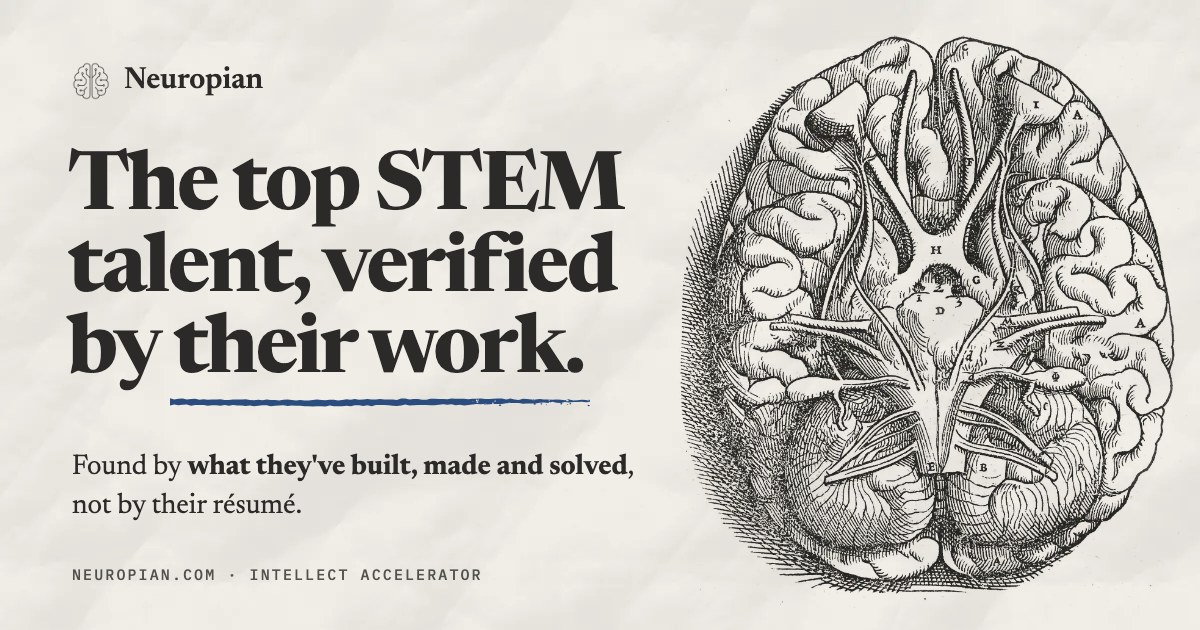
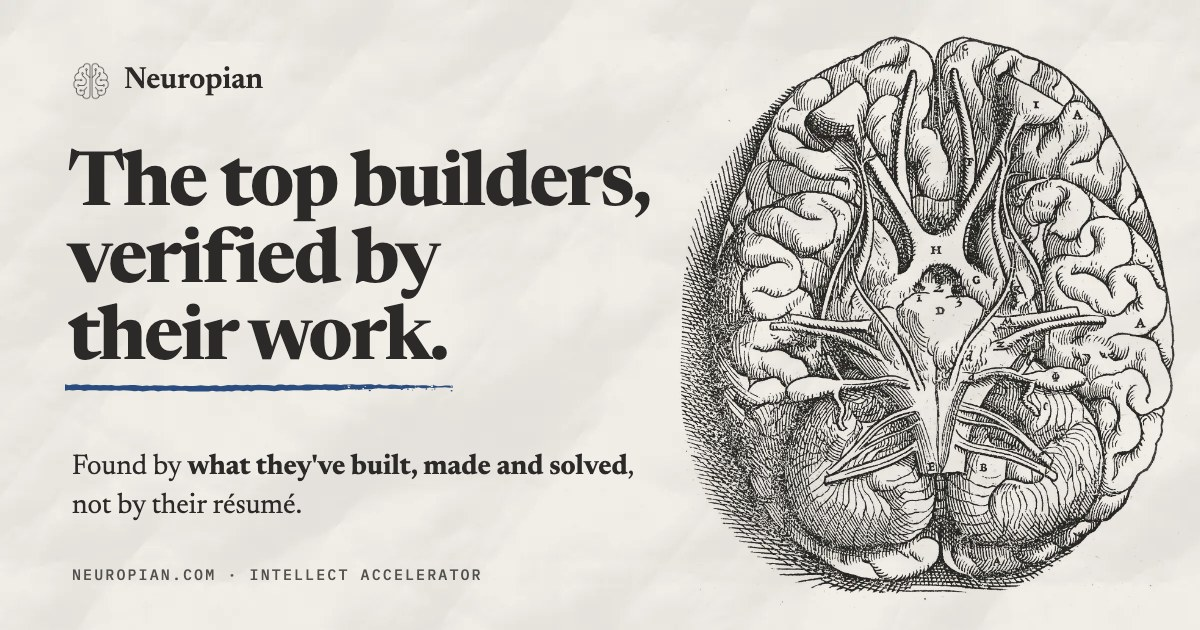
Headline: "The top builders, verified by their work." (*was "The top STEM talent"*), all 6 languages + og.jpg (?v=3); hero types 2.5x faster (30 ms/char, 200 ms delay; was 75/400); site.js?v=20261112a

Changed region(s): [[0.0617, 0.2111, 0.555, 0.6635]]

diff --git a/hi/index.html b/hi/index.html
@@ -5,14 +5,14 @@
 <meta name="darkreader-lock">
 <script>(function(){var h=location.hash,q=location.search,p=location.pathname,n=location.hostname,a=/access_token=|error_description=|type=(recovery|signup|invite|magiclink|email_change)/.test(h)||/[?&](code|token_hash)=/.test(q);if(/github\.io$/.test(n)){location.replace('https://neuropian.com/'+(a?'app':'')+q+h);return;}if(a&&(p==='/'||p==='/index.html'))location.replace('/app'+q+h)})()</script>
 <meta name="viewport" content="width=device-width, initial-scale=1">
-<title>Neuropian · शीर्ष STEM प्रतिभा, अपने काम से प्रमाणित</title>
+<title>Neuropian · शीर्ष निर्माता, अपने काम से प्रमाणित</title>
 <meta name="description" content="Neuropian, बुद्धि त्वरक: किसी भी क्षेत्र के प्रतिभाशाली लोग, जिन्हें उनके बनाए, रचे और हल किए काम से पहचाना जाता है।">
 <link rel="canonical" href="https://neuropian.com/hi/">
 <meta property="og:type" content="website">
 <meta property="og:url" content="https://neuropian.com/hi/">
 <meta property="og:title" content="Neuropian">
-<meta property="og:description" content="शीर्ष STEM प्रतिभा, अपने काम से प्रमाणित। Neuropian वह जगह है जहाँ प्रतिभाशाली लोग अपने बनाए, रचे और हल किए काम से पहचाने जाते हैं।">
-<meta property="og:image" content="https://neuropian.com/assets/og.jpg?v=2">
+<meta property="og:description" content="शीर्ष निर्माता, अपने काम से प्रमाणित। Neuropian वह जगह है जहाँ प्रतिभाशाली लोग अपने बनाए, रचे और हल किए काम से पहचाने जाते हैं।">
+<meta property="og:image" content="https://neuropian.com/assets/og.jpg?v=3">
 <meta property="og:image:width" content="1200">
 <meta property="og:image:height" content="630">
 <meta name="twitter:card" content="summary_large_image">
@@ -524,7 +524,7 @@ html .npac-k,html .npld{letter-spacing:0}html .npac h2{line-height:1.3}
   <div class="wrap hero-grid">
    <div class="hero-text">
     <p class="kicker">Neuropian · बुद्धि त्वरक</p>
-    <h1>शीर्ष STEM प्रतिभा, अपने काम से <span class="brush">प्रमाणित।</span></h1>
+    <h1>शीर्ष निर्माता, अपने काम से <span class="brush">प्रमाणित।</span></h1>
     <p class="lede">Neuropian वह जगह है जहाँ प्रतिभाशाली लोग अपने रिज़्यूमे से नहीं, बल्कि इस बात से पहचाने जाते हैं कि <b>उन्होंने क्या बनाया, रचा और हल किया</b>, और <b>वे कैसे नेतृत्व करते हैं और दूसरों के साथ काम करते हैं</b>।</p>
     <div class="ctas"><a class="cta" href="/hire?lang=hi">हम भर्ती कर रहे हैं →</a><a class="cta line" href="/app?lang=hi&auth=reg" data-auth="reg">मैं निर्माता हूँ →</a></div>
     <p class="tagline">संकेत, रिज़्यूमे नहीं · कोई प्रमाणपत्र ज़रूरी नहीं</p>
@@ -607,7 +607,7 @@ html .npac-k,html .npld{letter-spacing:0}html .npac h2{line-height:1.3}
     <span><a href="/terms.html">शर्तें</a> · <a href="/privacy.html">गोपनीयता</a><!--i18n:en--> <span class="en-note">(अंग्रेज़ी में)</span><!--/i18n:en--> · <a href="/app?lang=hi">सदस्य</a></span>
   </div>
 </footer>
-<script src="/assets/site.js?v=20261028a" defer></script>
+<script src="/assets/site.js?v=20261112a" defer></script>
 <script src="/assets/globe.js?v=20261030a" defer></script>
 <style>
 /* account card: opens over the page when you're signed in (Log in / Create an account never leave the page) */

diff --git a/he/index.html b/he/index.html
@@ -5,14 +5,14 @@
 <meta name="darkreader-lock">
 <script>(function(){var h=location.hash,q=location.search,p=location.pathname,n=location.hostname,a=/access_token=|error_description=|type=(recovery|signup|invite|magiclink|email_change)/.test(h)||/[?&](code|token_hash)=/.test(q);if(/github\.io$/.test(n)){location.replace('https://neuropian.com/'+(a?'app':'')+q+h);return;}if(a&&(p==='/'||p==='/index.html'))location.replace('/app'+q+h)})()</script>
 <meta name="viewport" content="width=device-width, initial-scale=1">
-<title>Neuropian · הכישרונות המובילים ב־STEM, מאומתים לפי העבודה שלהם</title>
+<title>Neuropian · הבונים המובילים, מאומתים לפי העבודה שלהם</title>
 <meta name="description" content="Neuropian, מאיץ האינטלקט: אנשים מבריקים בכל תחום, שמתגלים בזכות מה שבנו, יצרו ופתרו.">
 <link rel="canonical" href="https://neuropian.com/he/">
 <meta property="og:type" content="website">
 <meta property="og:url" content="https://neuropian.com/he/">
 <meta property="og:title" content="Neuropian">
-<meta property="og:description" content="הכישרונות המובילים ב־STEM, מאומתים לפי העבודה שלהם. Neuropian היא המקום שבו אנשים מבריקים מתגלים בזכות מה שבנו, יצרו ופתרו.">
-<meta property="og:image" content="https://neuropian.com/assets/og.jpg?v=2">
+<meta property="og:description" content="הבונים המובילים, מאומתים לפי העבודה שלהם. Neuropian היא המקום שבו אנשים מבריקים מתגלים בזכות מה שבנו, יצרו ופתרו.">
+<meta property="og:image" content="https://neuropian.com/assets/og.jpg?v=3">
 <meta property="og:image:width" content="1200">
 <meta property="og:image:height" content="630">
 <meta name="twitter:card" content="summary_large_image">
@@ -538,7 +538,7 @@ html .npac-k,html .npld{letter-spacing:.02em}
   <div class="wrap hero-grid">
    <div class="hero-text">
     <p class="kicker">Neuropian · מאיץ אינטלקט</p>
-    <h1>הכישרונות המובילים ב־STEM, מאומתים לפי <span class="brush">העבודה שלהם.</span></h1>
+    <h1>הבונים המובילים, מאומתים לפי <span class="brush">העבודה שלהם.</span></h1>
     <p class="lede">Neuropian היא המקום שבו אנשים מבריקים מתגלים בזכות <b>מה שבנו, יצרו ופתרו</b>, ובזכות <b>האופן שבו הם מובילים ועובדים עם אחרים</b>, ולא בזכות מה שכתוב בקורות החיים שלהם.</p>
     <div class="ctas"><a class="cta" href="/hire?lang=he">אנחנו מגייסים ←</a><a class="cta line" href="/app?lang=he&auth=reg" data-auth="reg">אני בונה ←</a></div>
     <p class="tagline">אותות, לא קורות חיים · ללא צורך בתעודות</p>
@@ -621,7 +621,7 @@ html .npac-k,html .npld{letter-spacing:.02em}
     <span><a href="/terms.html">תנאים</a> · <a href="/privacy.html">פרטיות</a><!--i18n:en--> <span class="en-note">(באנגלית)</span><!--/i18n:en--> · <a href="/app?lang=he">חברים</a></span>
   </div>
 </footer>
-<script src="/assets/site.js?v=20261028a" defer></script>
+<script src="/assets/site.js?v=20261112a" defer></script>
 <script src="/assets/globe.js?v=20261030a" defer></script>
 <style>
 /* account card: opens over the page when you're signed in (Log in / Create an account never leave the page) */

diff --git a/fr/index.html b/fr/index.html
@@ -5,14 +5,14 @@
 <meta name="darkreader-lock">
 <script>(function(){var h=location.hash,q=location.search,p=location.pathname,n=location.hostname,a=/access_token=|error_description=|type=(recovery|signup|invite|magiclink|email_change)/.test(h)||/[?&](code|token_hash)=/.test(q);if(/github\.io$/.test(n)){location.replace('https://neuropian.com/'+(a?'app':'')+q+h);return;}if(a&&(p==='/'||p==='/index.html'))location.replace('/app'+q+h)})()</script>
 <meta name="viewport" content="width=device-width, initial-scale=1">
-<title>Neuropian · Les meilleurs talents STEM, vérifiés par leur travail</title>
+<title>Neuropian · Les meilleurs bâtisseurs, vérifiés par leur travail</title>
 <meta name="description" content="Neuropian, l’accélérateur d’intellect : des personnes brillantes dans tous les domaines, repérées pour ce qu’elles ont construit, créé et résolu.">
 <link rel="canonical" href="https://neuropian.com/fr/">
 <meta property="og:type" content="website">
 <meta property="og:url" content="https://neuropian.com/fr/">
 <meta property="og:title" content="Neuropian">
-<meta property="og:description" content="Les meilleurs talents STEM, vérifiés par leur travail. Neuropian, c’est l’endroit où les personnes brillantes sont repérées pour ce qu’elles ont construit, créé et résolu.">
-<meta property="og:image" content="https://neuropian.com/assets/og.jpg?v=2">
+<meta property="og:description" content="Les meilleurs bâtisseurs, vérifiés par leur travail. Neuropian, c’est l’endroit où les personnes brillantes sont repérées pour ce qu’elles ont construit, créé et résolu.">
+<meta property="og:image" content="https://neuropian.com/assets/og.jpg?v=3">
 <meta property="og:image:width" content="1200">
 <meta property="og:image:height" content="630">
 <meta name="twitter:card" content="summary_large_image">
@@ -514,7 +514,7 @@ h2,h3{text-wrap:balance}.tile.t3 b{font-size:clamp(32px,3.6vw,50px)}
   <div class="wrap hero-grid">
    <div class="hero-text">
     <p class="kicker">Neuropian · Accélérateur d’intellect</p>
-    <h1>Les meilleurs talents STEM, vérifiés par <span class="brush">leur travail.</span></h1>
+    <h1>Les meilleurs bâtisseurs, vérifiés par <span class="brush">leur travail.</span></h1>
     <p class="lede">Neuropian, c’est l’endroit où les personnes brillantes sont repérées pour <b>ce qu’elles ont construit, créé et résolu</b>, et pour <b>leur façon de diriger et de travailler avec les autres</b>, pas pour ce qui figure sur leur CV.</p>
     <div class="ctas"><a class="cta" href="/hire?lang=fr">Je recrute →</a><a class="cta line" href="/app?lang=fr&auth=reg" data-auth="reg">Je suis bâtisseur →</a></div>
     <p class="tagline">Le signal, pas le CV · Aucun diplôme requis</p>
@@ -597,7 +597,7 @@ h2,h3{text-wrap:balance}.tile.t3 b{font-size:clamp(32px,3.6vw,50px)}
     <span><a href="/terms.html">Conditions</a> · <a href="/privacy.html">Confidentialité</a><!--i18n:en--> <span class="en-note">(en anglais)</span><!--/i18n:en--> · <a href="/app?lang=fr">Membres</a></span>
   </div>
 </footer>
-<script src="/assets/site.js?v=20261028a" defer></script>
+<script src="/assets/site.js?v=20261112a" defer></script>
 <script src="/assets/globe.js?v=20261030a" defer></script>
 <style>
 /* account card: opens over the page when you're signed in (Log in / Create an account never leave the page) */

diff --git a/es/index.html b/es/index.html
@@ -5,14 +5,14 @@
 <meta name="darkreader-lock">
 <script>(function(){var h=location.hash,q=location.search,p=location.pathname,n=location.hostname,a=/access_token=|error_description=|type=(recovery|signup|invite|magiclink|email_change)/.test(h)||/[?&](code|token_hash)=/.test(q);if(/github\.io$/.test(n)){location.replace('https://neuropian.com/'+(a?'app':'')+q+h);return;}if(a&&(p==='/'||p==='/index.html'))location.replace('/app'+q+h)})()</script>
 <meta name="viewport" content="width=device-width, initial-scale=1">
-<title>Neuropian · El mejor talento STEM, verificado por su trabajo</title>
+<title>Neuropian · Los mejores constructores, verificados por su trabajo</title>
 <meta name="description" content="Neuropian, el acelerador de intelecto: personas brillantes en cualquier campo, descubiertas por lo que han construido, creado y resuelto.">
 <link rel="canonical" href="https://neuropian.com/es/">
 <meta property="og:type" content="website">
 <meta property="og:url" content="https://neuropian.com/es/">
 <meta property="og:title" content="Neuropian">
-<meta property="og:description" content="El mejor talento STEM, verificado por su trabajo. Neuropian es donde las personas brillantes son descubiertas por lo que han construido, creado y resuelto.">
-<meta property="og:image" content="https://neuropian.com/assets/og.jpg?v=2">
+<meta property="og:description" content="Los mejores constructores, verificados por su trabajo. Neuropian es donde las personas brillantes son descubiertas por lo que han construido, creado y resuelto.">
+<meta property="og:image" content="https://neuropian.com/assets/og.jpg?v=3">
 <meta property="og:image:width" content="1200">
 <meta property="og:image:height" content="630">
 <meta name="twitter:card" content="summary_large_image">
@@ -514,7 +514,7 @@ h2,h3{text-wrap:balance}.tile.t3 b{font-size:clamp(32px,3.6vw,50px)}
   <div class="wrap hero-grid">
    <div class="hero-text">
     <p class="kicker">Neuropian · Acelerador de intelecto</p>
-    <h1>El mejor talento STEM, verificado por <span class="brush">su trabajo.</span></h1>
+    <h1>Los mejores constructores, verificados por <span class="brush">su trabajo.</span></h1>
     <p class="lede">Neuropian es donde las personas brillantes son descubiertas por <b>lo que han construido, creado y resuelto</b>, y por <b>cómo lideran y trabajan con otros</b>, no por lo que dice su currículum.</p>
     <div class="ctas"><a class="cta" href="/hire?lang=es">Estoy contratando →</a><a class="cta line" href="/app?lang=es&auth=reg" data-auth="reg">Soy constructor →</a></div>
     <p class="tagline">Señal, no currículums · No se exigen títulos</p>
@@ -597,7 +597,7 @@ h2,h3{text-wrap:balance}.tile.t3 b{font-size:clamp(32px,3.6vw,50px)}
     <span><a href="/terms.html">Términos</a> · <a href="/privacy.html">Privacidad</a><!--i18n:en--> <span class="en-note">(en inglés)</span><!--/i18n:en--> · <a href="/app?lang=es">Miembros</a></span>
   </div>
 </footer>
-<script src="/assets/site.js?v=20261028a" defer></script>
+<script src="/assets/site.js?v=20261112a" defer></script>
 <script src="/assets/globe.js?v=20261030a" defer></script>
 <style>
 /* account card: opens over the page when you're signed in (Log in / Create an account never leave the page) */

diff --git a/zh/index.html b/zh/index.html
@@ -5,14 +5,14 @@
 <meta name="darkreader-lock">
 <script>(function(){var h=location.hash,q=location.search,p=location.pathname,n=location.hostname,a=/access_token=|error_description=|type=(recovery|signup|invite|magiclink|email_change)/.test(h)||/[?&](code|token_hash)=/.test(q);if(/github\.io$/.test(n)){location.replace('https://neuropian.com/'+(a?'app':'')+q+h);return;}if(a&&(p==='/'||p==='/index.html'))location.replace('/app'+q+h)})()</script>
 <meta name="viewport" content="width=device-width, initial-scale=1">
-<title>Neuropian · 顶尖 STEM 人才，以作品为证</title>
+<title>Neuropian · 顶尖建造者，以作品为证</title>
 <meta name="description" content="Neuropian，智识加速器：任何领域的出色人才，凭他们构建、创造和解决过的东西被发现。">
 <link rel="canonical" href="https://neuropian.com/zh/">
 <meta property="og:type" content="website">
 <meta property="og:url" content="https://neuropian.com/zh/">
 <meta property="og:title" content="Neuropian">
-<meta property="og:description" content="顶尖 STEM 人才，以作品为证。在 Neuropian，出色的人凭自己构建、创造和解决过的东西被发现。">
-<meta property="og:image" content="https://neuropian.com/assets/og.jpg?v=2">
+<meta property="og:description" content="顶尖建造者，以作品为证。在 Neuropian，出色的人凭自己构建、创造和解决过的东西被发现。">
+<meta property="og:image" content="https://neuropian.com/assets/og.jpg?v=3">
 <meta property="og:image:width" content="1200">
 <meta property="og:image:height" content="630">
 <meta name="twitter:card" content="summary_large_image">
@@ -523,7 +523,7 @@ html .npac-k,html .npld{letter-spacing:.06em}
   <div class="wrap hero-grid">
    <div class="hero-text">
     <p class="kicker">Neuropian · 智识加速器</p>
-    <h1>顶尖 STEM 人才，<span class="brush">以作品为证。</span></h1>
+    <h1>顶尖建造者，<span class="brush">以作品为证。</span></h1>
     <p class="lede">在 Neuropian，出色的人凭<b>自己构建、创造和解决过的东西</b>，以及<b>领导他人、与人协作的方式</b>被发现，而不是凭简历上写了什么。</p>
     <div class="ctas"><a class="cta" href="/hire?lang=zh">我要招聘 →</a><a class="cta line" href="/app?lang=zh&auth=reg" data-auth="reg">我是建造者 →</a></div>
     <p class="tagline">看信号，不看简历 · 无需任何资历证明</p>
@@ -605,7 +605,7 @@ html .npac-k,html .npld{letter-spacing:.06em}
     <span><a href="/terms.html">条款</a> · <a href="/privacy.html">隐私</a><!--i18n:en--> <span class="en-note">（英文）</span><!--/i18n:en--> · <a href="/app?lang=zh">成员</a></span>
   </div>
 </footer>
-<script src="/assets/site.js?v=20261028a" defer></script>
+<script src="/assets/site.js?v=20261112a" defer></script>
 <script src="/assets/globe.js?v=20261030a" defer></script>
 <style>
 /* account card: opens over the page when you're signed in (Log in / Create an account never leave the page) */

diff --git a/index.html b/index.html
@@ -5,14 +5,14 @@
 <meta name="darkreader-lock">
 <script>(function(){var h=location.hash,q=location.search,p=location.pathname,n=location.hostname,a=/access_token=|error_description=|type=(recovery|signup|invite|magiclink|email_change)/.test(h)||/[?&](code|token_hash)=/.test(q);if(/github\.io$/.test(n)){location.replace('https://neuropian.com/'+(a?'app':'')+q+h);return;}if(a&&(p==='/'||p==='/index.html'))location.replace('/app'+q+h)})()</script>
 <meta name="viewport" content="width=device-width, initial-scale=1">
-<title>Neuropian · The top STEM talent, verified by their work</title>
+<title>Neuropian · The top builders, verified by their work</title>
 <meta name="description" content="Neuropian, the intellect accelerator: brilliant people in any field, found by what they have built, made and solved.">
 <link rel="canonical" href="https://neuropian.com/">
 <meta property="og:type" content="website">
 <meta property="og:url" content="https://neuropian.com/">
 <meta property="og:title" content="Neuropian">
-<meta property="og:description" content="The top STEM talent, verified by their work. Neuropian is where brilliant people get found by what they've built, made and solved.">
-<meta property="og:image" content="https://neuropian.com/assets/og.jpg?v=2">
+<meta property="og:description" content="The top builders, verified by their work. Neuropian is where brilliant people get found by what they've built, made and solved.">
+<meta property="og:image" content="https://neuropian.com/assets/og.jpg?v=3">
 <meta property="og:image:width" content="1200">
 <meta property="og:image:height" content="630">
 <meta name="twitter:card" content="summary_large_image">
@@ -524,7 +524,7 @@ html{scroll-padding-top:68px}
   <div class="wrap hero-grid">
    <div class="hero-text">
     <p class="kicker">Neuropian · Intellect accelerator</p>
-    <h1>The top STEM talent, verified by <span class="brush">their work.</span></h1>
+    <h1>The top builders, verified by <span class="brush">their work.</span></h1>
     <p class="lede">Neuropian is where brilliant people get found by <b>what they've built, made and solved</b>, and <b>how they lead and collaborate</b>, not by what's on their résumé.</p>
     <div class="ctas"><a class="cta" href="/hire">I'm hiring →</a><a class="cta line" href="/app?auth=reg" data-auth="reg">I'm a builder →</a></div>
     <p class="tagline">Signal, not résumés · No credentials required</p>
@@ -607,7 +607,7 @@ html{scroll-padding-top:68px}
     <span><a href="/terms.html">Terms</a> · <a href="/privacy.html">Privacy</a> · <a href="/app.html">Members</a></span>
   </div>
 </footer>
-<script src="assets/site.js?v=20261028a" defer></script>
+<script src="assets/site.js?v=20261112a" defer></script>
 <script src="/assets/globe.js?v=20261030a" defer></script>
 <style>
 /* account card: opens over the page when you're signed in (Log in / Create an account never leave the page) */

diff --git a/assets/site.js b/assets/site.js
@@ -73,7 +73,7 @@
     var t1 = h1.textContent.trim(), h1html = h1.innerHTML;          /* typing uses plain text; the coloured word comes back after */
     h1.style.minHeight = h1.offsetHeight + "px";
     h1.setAttribute("data-type", "");                               /* show the cursor while it types (2026-10-28: bring the type-out back, visibly) */
-    setTimeout(function () { typeInto(h1, t1, 75, function () { h1.removeAttribute("data-type"); h1.innerHTML = h1html; }); }, 400);
+    setTimeout(function () { typeInto(h1, t1, 30, function () { h1.removeAttribute("data-type"); h1.innerHTML = h1html; }); }, 200);   /* 2026-11-12 Dylan: type faster (was 75 ms/char, 400 ms delay) */
   }
 
   /* The last run: lines type out one after another when the terminal comes into view. */

diff --git a/hire.html b/hire.html
@@ -334,7 +334,7 @@ a.login[data-auth]{display:inline-block;max-width:15ch;overflow:hidden;text-over
   paint();
 })();
 </script>
-<script src="/assets/site.js?v=20261111a" defer></script>
+<script src="/assets/site.js?v=20261112a" defer></script>
 <script src="/assets/lang-menu.js?v=20261025a" defer></script>
 <script src="/assets/interview-invite.js?v=20261111a" defer></script>
 </body>
